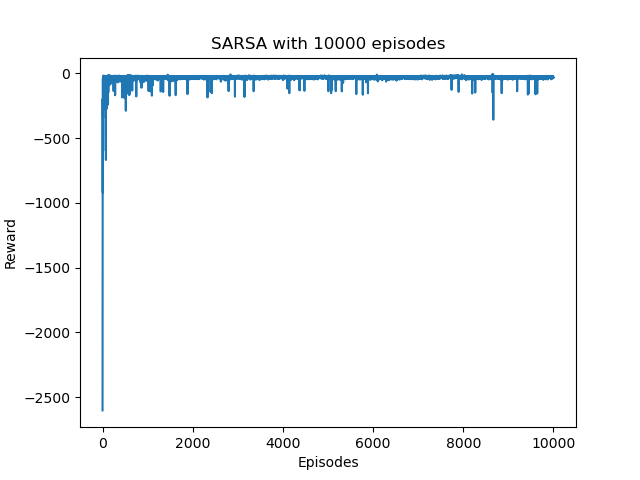
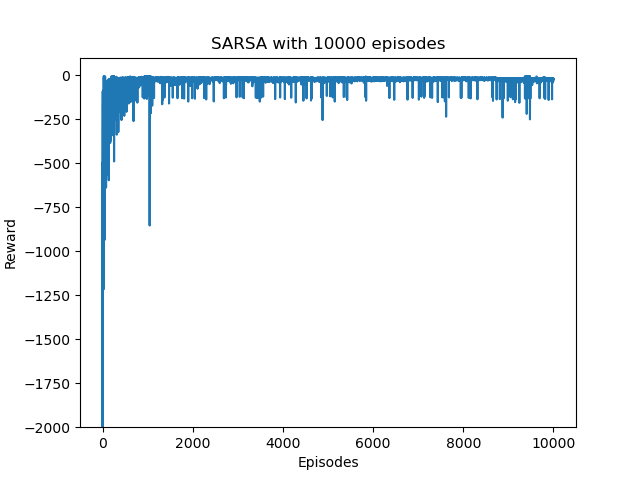
Changes on some plots

diff --git a/ShortCutExperiment.py b/ShortCutExperiment.py
@@ -26,6 +26,7 @@ if __name__ == "__main__":
     plt.xlabel("Episodes")
     plt.ylabel("Reward")
     plt.title("Q-Learning with 10000 episodes")
+    plt.ylim(-2000, 100)
     plt.savefig("Q-learning_10000.png")
     plt.close()
 
@@ -34,6 +35,7 @@ if __name__ == "__main__":
     plt.xlabel("Episodes")
     plt.ylabel("Reward")
     plt.title("Q-Learning with 100 repetitions and 1000 episodes")
+    plt.ylim(-2000, 100)
     plt.savefig("Q-learning_100x1000.png")
     plt.close()
 
@@ -45,10 +47,10 @@ if __name__ == "__main__":
     plt.ylabel("Reward")
     plt.title("Q-learning with different alpha values")
     plt.legend()
+    plt.ylim(-2000, 100)
     plt.savefig("Q-learning_alpha_values.png")
     plt.close()
 
-    # Q-learning greedy paths
     env = ShortcutEnvironment()
     agent = QLearningAgent(n_actions=env.action_size(), n_states=env.state_size(), epsilon=0.1, alpha=0.5, gamma=1.0)
     agent.train(env, 10000)
@@ -60,6 +62,7 @@ if __name__ == "__main__":
     plt.xlabel("Episodes")
     plt.ylabel("Reward")
     plt.title("SARSA with 10000 episodes")
+    plt.ylim(-2000, 100)
     plt.savefig("SARSA_10000.png")
     plt.close()
 
@@ -68,6 +71,7 @@ if __name__ == "__main__":
     plt.xlabel("Episodes")
     plt.ylabel("Reward")
     plt.title("SARSA with 100 repetitions and 1000 episodes")
+    plt.ylim(-2000, 100)
     plt.savefig("SARSA_100x1000.png")
     plt.close()
 
@@ -79,10 +83,10 @@ if __name__ == "__main__":
     plt.ylabel("Reward")
     plt.title("SARSA with different alpha values")
     plt.legend()
+    plt.ylim(-2000, 100)
     plt.savefig("SARSA_alpha_values.png")
     plt.close()
 
-    # SARSA greedy paths
     env = ShortcutEnvironment()
     agent = SARSAAgent(n_actions=env.action_size(), n_states=env.state_size(), epsilon=0.1, alpha=0.5, gamma=1.0)
     agent.train(env, 10000)
@@ -105,6 +109,7 @@ if __name__ == "__main__":
     plt.xlabel("Episodes")
     plt.ylabel("Reward")
     plt.title("Expected SARSA with 10000 episodes")
+    plt.ylim(-2000, 100)
     plt.savefig("Expected_SARSA_10000.png")
     plt.close()
 
@@ -113,6 +118,7 @@ if __name__ == "__main__":
     plt.xlabel("Episodes")
     plt.ylabel("Reward")
     plt.title("Expected SARSA with 100 repetitions and 1000 episodes")
+    plt.ylim(-2000, 100)
     plt.savefig("Expected_SARSA_100x1000.png")
     plt.close()
 
@@ -123,13 +129,13 @@ if __name__ == "__main__":
     plt.xlabel("Episodes")
     plt.ylabel("Reward")
     plt.title("Expected SARSA with different alpha values")
+    plt.ylim(-2000, 100)
     plt.legend()
     plt.savefig("Expected_SARSA_alpha_values.png")
     plt.close()
 
-    # Expected SARSA greedy paths
     env = ShortcutEnvironment()
-    agent = ExpectedSARSAAgent(n_actions=env.action_size(), n_states=env.state_size(), epsilon=0.1, alpha=0.5, gamma=1.0) # maybe change alpha after analyzing the results
+    agent = ExpectedSARSAAgent(n_actions=env.action_size(), n_states=env.state_size(), epsilon=0.1, alpha=0.9, gamma=1.0)
     agent.train(env, 10000)
     env.render_greedy(agent.Q)
 
@@ -139,25 +145,27 @@ if __name__ == "__main__":
     plt.xlabel("Episodes")
     plt.ylabel("Reward")
     plt.title("n-step SARSA with 10000 episodes and n=2")
+    plt.ylim(-2000, 100)
     plt.savefig("n-step_SARSA_10000.png")
     plt.close()
 
     n_values = [1, 2, 5, 10, 25]
     for n in n_values:
-        mean_returns = run_repetition('sarsa', 100, 1000, n=n)
+        mean_returns = run_repetition('sarsa', 100, 1000, n=n, alpha=0.5)
         plt.plot(mean_returns, label=f"n={n}")
     plt.xlabel("Episodes")
     plt.ylabel("Reward")
     plt.title("n-step SARSA with different n values")
     plt.legend()
+    plt.ylim(-1000, 100)
     plt.savefig("n-step_SARSA_n_values.png")
     plt.close()
 
     ''' Comparison '''
     qlearning_returns = run_repetition("qlearning", 100, 1000, alpha=0.5)
     sarsa_returns = run_repetition("sarsa", 100, 1000, alpha=0.5)
-    expectedsarsa_returns = run_repetition("expectedsarsa", 100, 1000, alpha=0.5) # maybe change alpha after analyzing the results
-    nstepsarsa_returns = run_repetition("nstepsarsa", 100, 1000, n=2) # maybe change n and alpha after analyzing the results
+    expectedsarsa_returns = run_repetition("expectedsarsa", 100, 1000, alpha=0.9)
+    nstepsarsa_returns = run_repetition("nstepsarsa", 100, 1000, n=2, alpha=0.5)
 
     plt.plot(qlearning_returns, label="Q-learning")
     plt.plot(sarsa_returns, label="SARSA")
@@ -167,5 +175,6 @@ if __name__ == "__main__":
     plt.ylabel("Reward")
     plt.title("Comparison of Q-learning, SARSA, Expected SARSA, and n-step SARSA")
     plt.legend()
+    plt.ylim(-1000, 100)
     plt.savefig("Comparison.png")
     plt.close()
